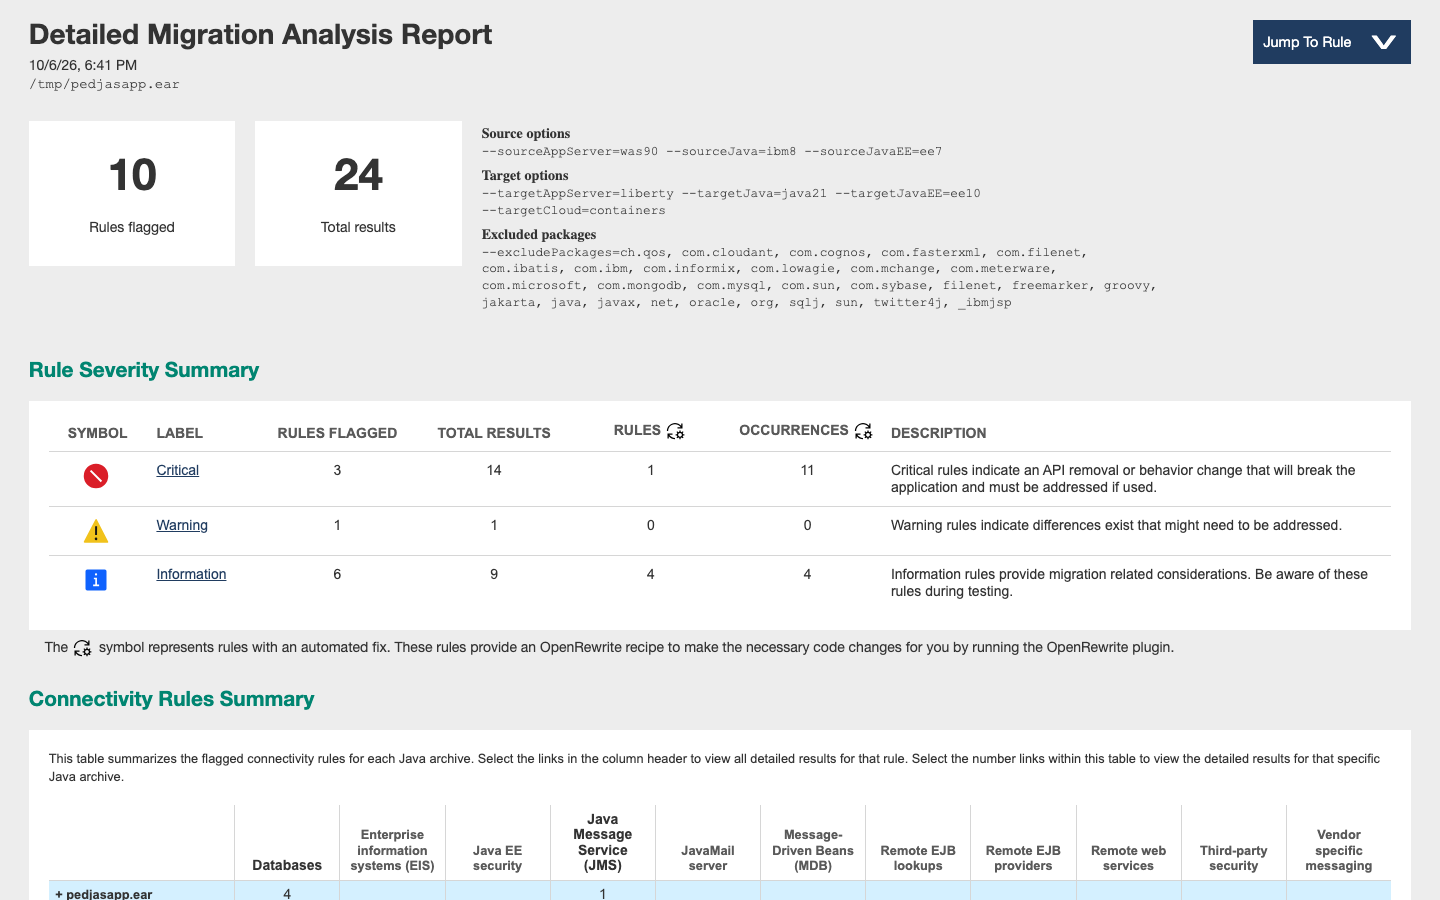
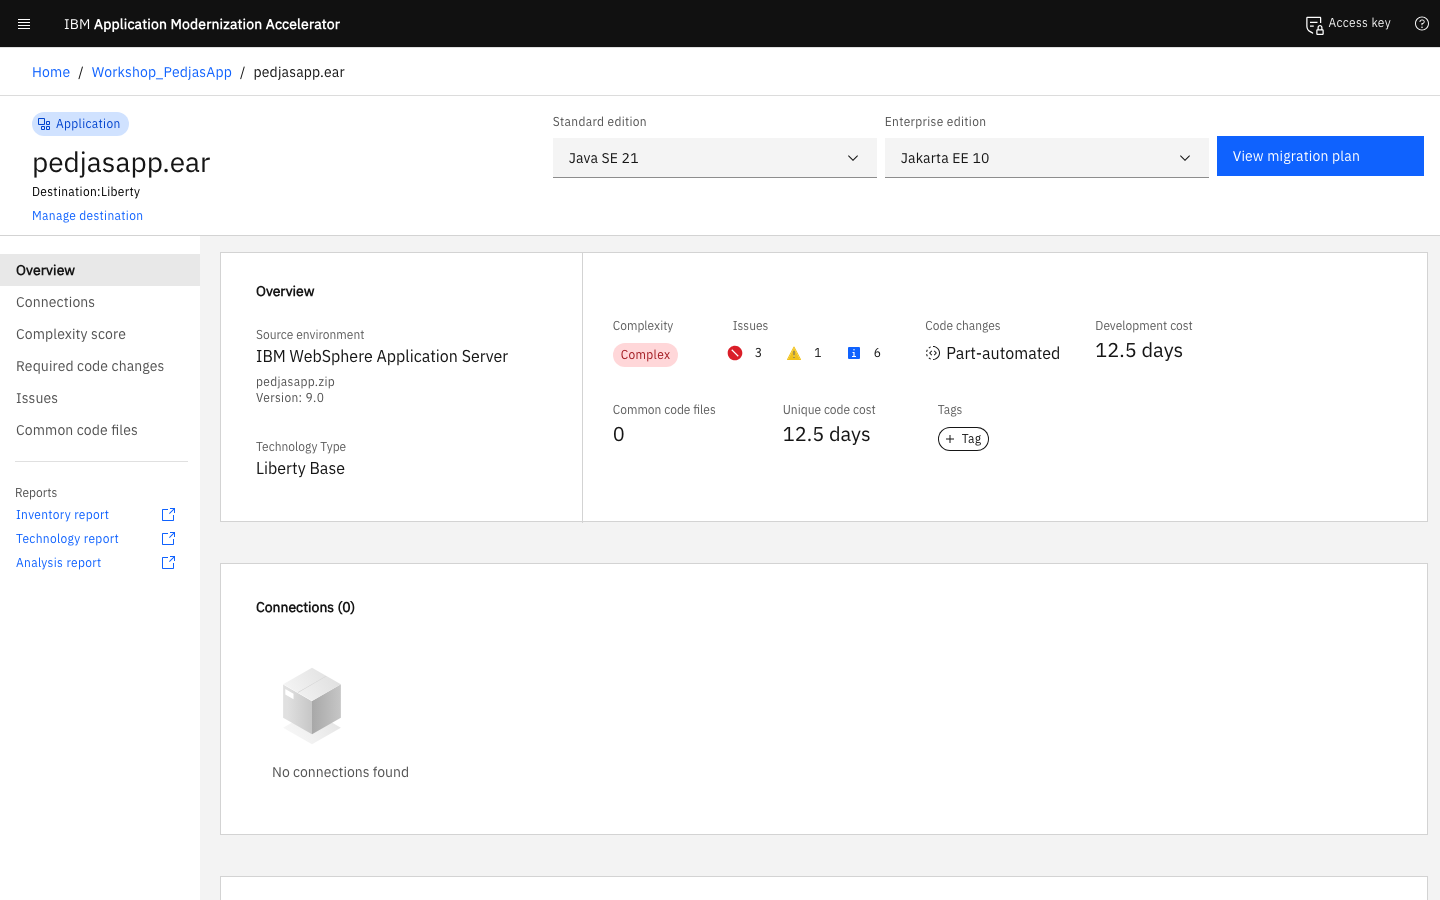
feat: img 10 = real AMA Application Detail view (Java SE 21 / Jakarta EE 10)
- scripts/capture-lab2-screenshots.cjs:
    • Section 07 now navigates to /application?...&workspace=24cac24b...
      (the real pedjasapp.ear detail page) instead of the analysis report URL
- docs/lab2/index.md + index.en.md (section 4.3):
    • Description updated: clicking pedjasapp.ear opens the Application Detail
    • Caption: 'Complejidad, Issues y coste estimado (Java 21 / Jakarta EE 10)'
    • Bullet summary of the panel: Complex / 3🔴 1🟡 6🔵 / Part-automated / 12.5 days
- docs/lab2/img/10-app-detail-pedjasapp.png:
    • Now shows the real AMA Application Detail with Java SE 21 + Jakarta EE 10
      dropdowns, breadcrumb Workshop_PedjasApp / pedjasapp.ear, Overview panel

diff --git a/docs/lab2/index.md b/docs/lab2/index.md
@@ -231,18 +231,15 @@ La pestaña **Assessment** muestra una tabla con todas las aplicaciones analizad
 
 ### 4.3 Reglas Disparadas en PedjasApp
 
-AMA genera un **Informe de Análisis HTML** completo para cada aplicación escaneada. Puedes acceder al informe directamente desde la URL de la API de AMA:
+Al hacer clic en `pedjasapp.ear` en la vista de Assessment se accede al **detalle de la aplicación**, que muestra la complejidad, el coste de desarrollo estimado y el desglose de issues con los objetivos **Java SE 21** y **Jakarta EE 10** seleccionados:
 
-```
-https://localhost/api/report?workspace=<id>&taskName=<taskId>
-  &appName=pedjasapp.ear&profileName=pedjasapp.zip
-  &targetEnv=websphereLiberty&reportType=analysis_reports
-  &eeLevel=ee10&javaLevel=java21
-```
+![Vista de detalle de pedjasapp.ear — Complejidad, Issues y coste estimado (Java 21 / Jakarta EE 10)](img/10-app-detail-pedjasapp.png)
 
-La cabecera del informe muestra un resumen de severidad con el recuento de reglas por nivel:
-
-![Informe de Análisis de AMA — cabecera con resumen de severidad](img/10-app-detail-pedjasapp.png)
+El panel muestra:
+- **Complejidad:** Complex
+- **Issues:** 3 🔴 Críticos, 1 🟡 Advertencia, 6 🔵 Informativos
+- **Cambios de código:** Part-automated (recetas OpenRewrite disponibles)
+- **Coste de desarrollo:** 12,5 días
 
 El informe real de PedjasApp genera **10 reglas disparadas / 24 resultados totales** con objetivo Jakarta EE 10 / Java 21:
 

diff --git a/docs/lab2/index.en.md b/docs/lab2/index.en.md
@@ -229,18 +229,15 @@ The **Assessment** tab displays a table of all scanned applications with complex
 
 ### 4.3 Modernization Rules Triggered in PedjasApp
 
-AMA generates a full **HTML Analysis Report** for each scanned application. You can access the report directly via the AMA report API:
+Clicking on `pedjasapp.ear` in the Assessment view opens the **application detail**, which shows complexity, estimated development cost, and the issue breakdown with **Java SE 21** and **Jakarta EE 10** as targets:
 
-```
-https://localhost/api/report?workspace=<id>&taskName=<taskId>
-  &appName=pedjasapp.ear&profileName=pedjasapp.zip
-  &targetEnv=websphereLiberty&reportType=analysis_reports
-  &eeLevel=ee10&javaLevel=java21
-```
+![pedjasapp.ear detail view — Complexity, Issues and estimated cost (Java 21 / Jakarta EE 10)](img/10-app-detail-pedjasapp.png)
 
-The report header shows a severity summary with the rule count per level:
-
-![AMA Analysis Report — header with severity summary](img/10-app-detail-pedjasapp.png)
+The panel reports:
+- **Complexity:** Complex
+- **Issues:** 3 🔴 Critical, 1 🟡 Warning, 6 🔵 Informational
+- **Code changes:** Part-automated (OpenRewrite recipes available)
+- **Development cost:** 12.5 days
 
 The real PedjasApp report generates **10 rules flagged / 24 total results** targeting Jakarta EE 10 / Java 21:
 
